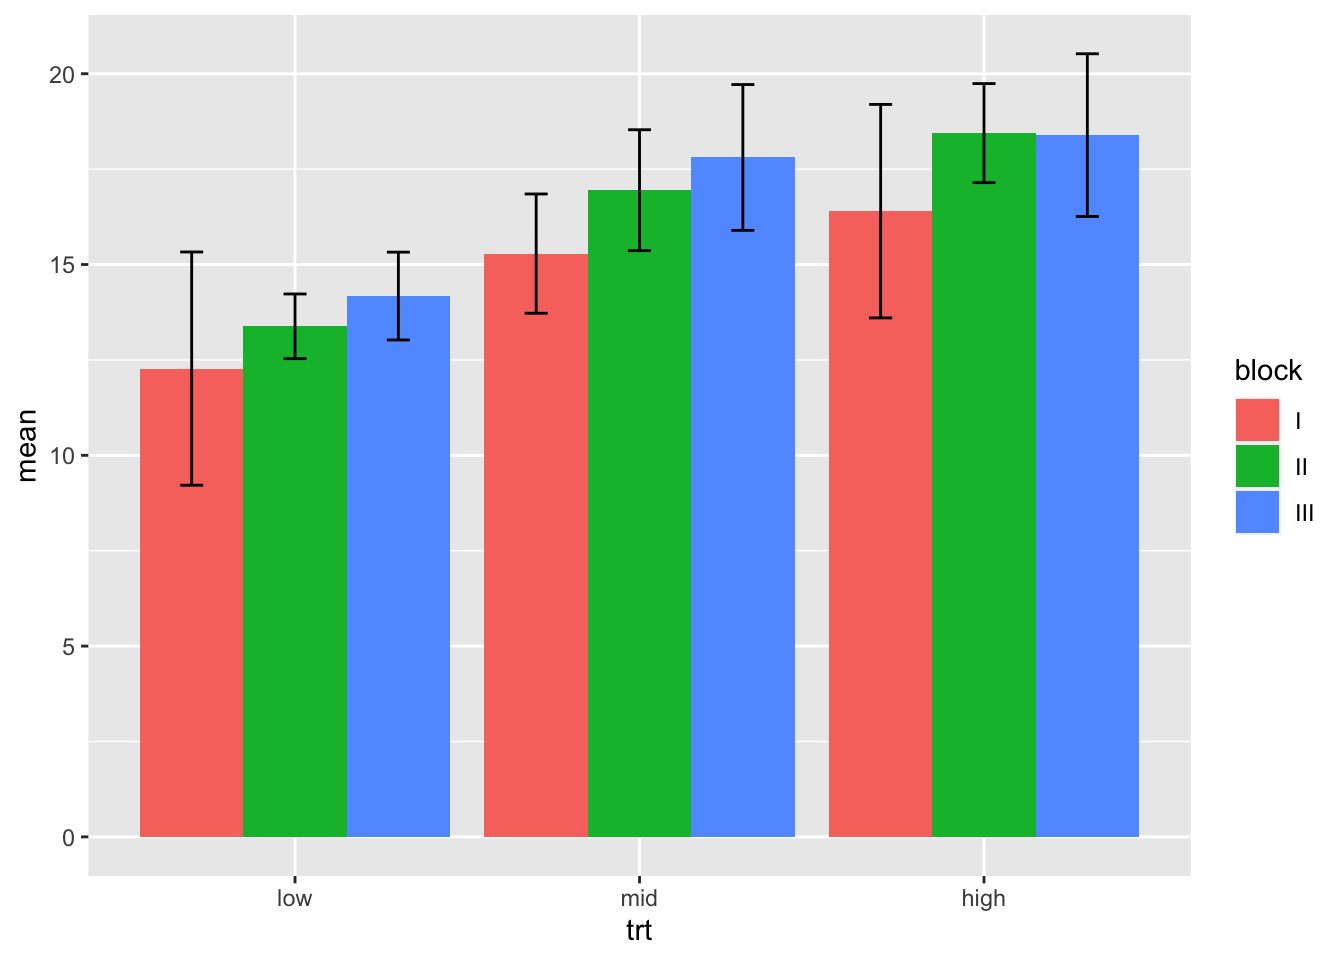
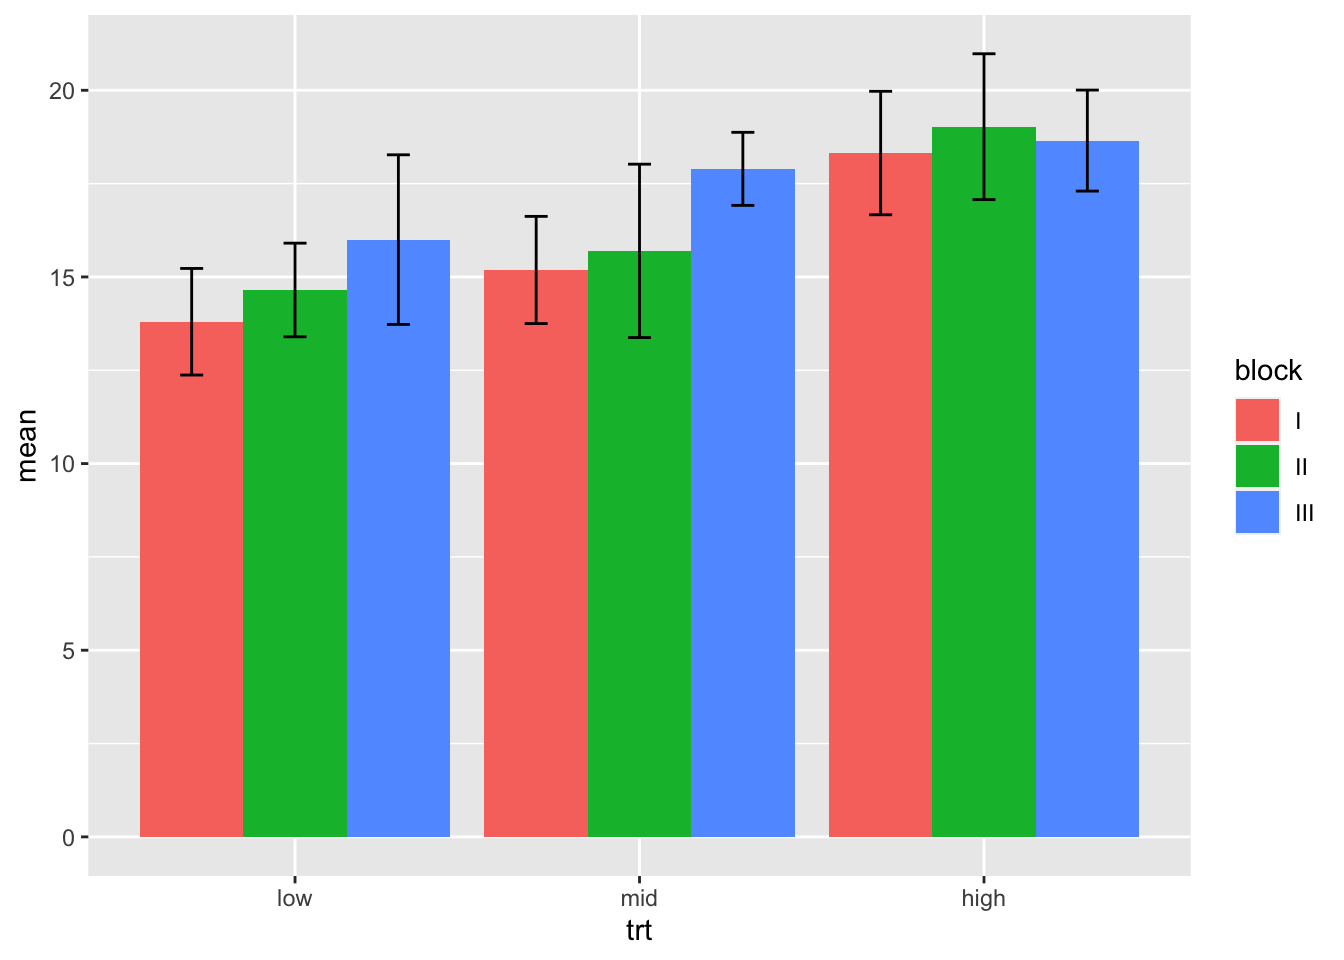
added text

diff --git a/docs/app-example-analysis.html b/docs/app-example-analysis.html
@@ -580,7 +580,7 @@ code span.wa { color: #60a0b0; font-weight: bold; font-style: italic; } /* Warni
 </header><div class="cell">
 
 </div>
-<p><em>Version vom November 18, 2022 um 15:03:57</em></p>
+<p><em>Version vom November 18, 2022 um 15:42:45</em></p>
 <div class="quarto-figure quarto-figure-center">
 <figure class="figure"><p><img src="images/caution.png" class="img-fluid figure-img" style="width:50.0%"></p>
 </figure>
@@ -959,12 +959,13 @@ Residuals             |     2120.85 | 45 |       47.13 |      |
 Anova Table (Type 1 tests)</code></pre>
 </div>
 </div>
-<p>Wir sehen die visuelle Interaktion auch in der ANOVA Ausgabe als hoch signifikanten Term <code>light_intensity:layer</code> mit dem <span class="math inline">\(p\)</span>-Wert <span class="math inline">\(&lt;0.001\)</span>. Im Anschluss rechnen wir jetzt die paarweisen Vergleiche mit der Funktion <code>emmeans()</code>. Mit dem <code>|</code> geben wir an, dass wir die paarweisen Vergleiche für die Level von <code>light_intensity</code> getrennt für die Level vom <code>layer</code> rechnen wollen. Wenn du <em>keine</em> Adjustierung des <span class="math inline">\(\alpha\)</span>-Niveaus für die multiplen Vergleiche möchtest, dann wähle einfach die Option <code>adjust = "none"</code>.</p>
+<p>Wir sehen die visuelle Interaktion auch in der ANOVA Ausgabe als hoch signifikanten Term <code>light_intensity:layer</code> mit dem <span class="math inline">\(p\)</span>-Wert <span class="math inline">\(&lt;0.001\)</span>. Im Anschluss rechnen wir jetzt die paarweisen Vergleiche mit der Funktion <code>emmeans()</code>. Mit dem <code>|</code> geben wir an, dass wir die paarweisen Vergleiche für die Level von <code>light_intensity</code> getrennt für die Level vom <code>layer</code> rechnen wollen. Wenn du <em>keine</em> Adjustierung des <span class="math inline">\(\alpha\)</span>-Niveaus für die multiplen Vergleiche möchtest, dann wähle einfach die Option <code>adjust = "none"</code>. Wir nutzen dann die Ausgabe nicht direkt sondern werden noch die Ausgabe etwas aufhübschen.</p>
 <div class="cell">
 <div class="sourceCode" id="cb22"><pre class="downlit sourceCode r code-with-copy"><code class="sourceCode R"><span><span class="va">comp_1_obj</span> <span class="op">&lt;-</span> <span class="va">fit_1</span> <span class="op">%&gt;%</span> </span>
 <span>  <span class="fu">emmeans</span><span class="op">(</span>specs <span class="op">=</span> <span class="op">~</span> <span class="va">light_intensity</span> <span class="op">|</span> <span class="va">layer</span><span class="op">)</span> <span class="op">%&gt;%</span> </span>
 <span>  <span class="fu">contrast</span><span class="op">(</span>method <span class="op">=</span> <span class="st">"pairwise"</span>, adjust <span class="op">=</span> <span class="st">"bonferroni"</span><span class="op">)</span> </span></code><button title="In die Zwischenablage kopieren" class="code-copy-button"><i class="bi"></i></button></pre></div>
 </div>
+<p>In dem Objekt <code>comp_1_obj</code> sind eine Menge Informationen enthalten. Ich kürze mir immer die Informationen und sortiere nochmal die Ergebnisse. Wir erhalten dann eine saubere Wiedergabe.</p>
 <div class="cell">
 <div class="sourceCode" id="cb23"><pre class="downlit sourceCode r code-with-copy"><code class="sourceCode R"><span><span class="va">comp_1_obj</span> <span class="op">%&gt;%</span> </span>
 <span>  <span class="va">summary</span> <span class="op">%&gt;%</span> </span>
@@ -986,6 +987,8 @@ Anova Table (Type 1 tests)</code></pre>
 9 mid - high 3rd   0.0028 </code></pre>
 </div>
 </div>
+<p>Nach der Adjustierung für die multiplen Vergleiche haben wir nur noch einen Effekt in dem <code>3rd</code> Layer. Sonst haben die Lichtintensitäten keinen Einfluss auf die Wuchshöhe der Pflanzen. Da wir wissen, dass das <code>3rd</code> Layer auch das defekte Layer war, sehen wir hier schon, dass wir keinen wirklichen Effekt durch das Licht vorliegen haben. Alles was wir gefunden haben, ist eben ein defektes <code>3rd</code> Layer.</p>
+<p>Die 95% Konfidenzintervalle erhalten wir mit der Funktion <code><a href="https://rdrr.io/r/stats/confint.html">confint()</a></code>. Die Ergebnisse sind natürlich die gleichen. Wir sehen wieder keinen Unterschied zwischen den Lichtintensitäten außer in dem <code>3rd</code> Layer.</p>
 <div class="cell">
 <div class="sourceCode" id="cb25"><pre class="downlit sourceCode r code-with-copy"><code class="sourceCode R"><span><span class="va">ci_obj</span> <span class="op">&lt;-</span> <span class="va">comp_1_obj</span> <span class="op">%&gt;%</span> </span>
 <span>  <span class="fu"><a href="https://rdrr.io/r/stats/confint.html">confint</a></span><span class="op">(</span><span class="op">)</span> <span class="op">%&gt;%</span> </span>
@@ -1008,6 +1011,7 @@ Anova Table (Type 1 tests)</code></pre>
 9 mid - high 3rd     14.0       4.18     23.9 </code></pre>
 </div>
 </div>
+<p>In der <a href="#fig-app-anova-interaction-4">Abbildung&nbsp;<span>A.6</span></a> sehen wir dann die berechneten 95% Konfidenzintervalle nochmal visualisiert. Wenn wir einen Effekt haben, dann im <code>3rd</code> Layer. In den restlichen 95% Konfidenzintervallen ist die Null mit enthalten, wir können also die Nullhypothese auf Gleichheit des Gruppenvergleiches nicht ablehnen.</p>
 <div class="cell" data-layout-align="center">
 <div class="sourceCode" id="cb27"><pre class="downlit sourceCode r code-with-copy"><code class="sourceCode R"><span><span class="fu">ggplot</span><span class="op">(</span><span class="va">ci_obj</span>, <span class="fu">aes</span><span class="op">(</span><span class="va">contrast</span>, y<span class="op">=</span><span class="va">estimate</span>, ymin<span class="op">=</span><span class="va">conf.low</span>, ymax<span class="op">=</span><span class="va">conf.high</span>,</span>
 <span>                   color <span class="op">=</span> <span class="va">layer</span>, group <span class="op">=</span> <span class="va">layer</span><span class="op">)</span><span class="op">)</span> <span class="op">+</span></span>
@@ -1025,6 +1029,7 @@ Anova Table (Type 1 tests)</code></pre>
 </div>
 </div>
 </div>
+<p>Neben der Darstellung mit 95% Konfidenzintervallen ist auch die Darstellung mit dem <em>compact letter display</em> sehr beliebt. Wir nutzen dafür dann die Funktion <code>cld()</code>. Wir adjustieren uns wieder die Vergleiche nach Bonferroni. Im Weiteren trenne wir die Vergleiche auch wieder nach den Leveln für den Faktor <code>layer</code> auf.</p>
 <div class="cell">
 <div class="sourceCode" id="cb28"><pre class="downlit sourceCode r code-with-copy"><code class="sourceCode R"><span><span class="va">cld_obj</span> <span class="op">&lt;-</span> <span class="va">fit_1</span> <span class="op">%&gt;%</span> </span>
 <span>  <span class="fu">emmeans</span><span class="op">(</span>specs <span class="op">=</span> <span class="op">~</span> <span class="va">light_intensity</span> <span class="op">|</span> <span class="va">layer</span><span class="op">)</span>  <span class="op">%&gt;%</span></span>
@@ -1059,12 +1064,15 @@ NOTE: Compact letter displays can be misleading
       Consider using 'pairs()', 'pwpp()', or 'pwpm()' instead. </code></pre>
 </div>
 </div>
+<p>Wir sehen wieder, dass wir nur in dem <code>3rd</code> Layer Buchstabenunterschiede haben. Daher haben wir auch nur im <code>3rd</code> Layer signifikante Ergebnisse. Wichtig ist, dass wir die Buchstaben nur pro Level des Layers vergleichen können, aber auf keinen Fall über die Layer hinweg. Das geht dann leider nicht. Die Ausgabe der Funktion <code>emmeans()</code> schlägt noch andere Darstellungsformen für die Vergleiche vor, du kannst gerne einmal die Funktionen <code><a href="https://rdrr.io/r/graphics/pairs.html">pairs()</a></code>, <code>pwpp()</code> oder <code>pwpm()</code> ausprobieren und schauen, ob dir die Visualisierung mehr sagt. Im <a href="stat-tests-posthoc.html#sec-posthoc-emmeans"><span>Kapitel&nbsp;31.5</span></a> gehe ich nochmal auf die verschiedene Darstellungsformen in <code>emmeans</code> ein.</p>
+<p>Wenn wir das <em>compact letter display</em> mit deinem Barplot verbinden wollen, müssen wir uns etwas strecken. Zuerst sortieren wir die Ausgabe von <code>cld_obj</code> wieder in die korrekte Reihenfolge der Faktorenlevel. Dann können wir die Spalte <code>.group</code> direkt in <code>ggplot()</code> verwenden.</p>
 <div class="cell">
 <div class="sourceCode" id="cb30"><pre class="downlit sourceCode r code-with-copy"><code class="sourceCode R"><span><span class="va">cld_sort_obj</span> <span class="op">&lt;-</span> <span class="va">cld_obj</span> <span class="op">%&gt;%</span> </span>
 <span>  <span class="fu">as_tibble</span><span class="op">(</span><span class="op">)</span> <span class="op">%&gt;%</span> </span>
 <span>  <span class="fu">select</span><span class="op">(</span><span class="va">light_intensity</span>, <span class="va">layer</span>, <span class="va">.group</span><span class="op">)</span> <span class="op">%&gt;%</span> </span>
 <span>  <span class="fu">arrange</span><span class="op">(</span><span class="va">layer</span>, <span class="va">light_intensity</span><span class="op">)</span></span></code><button title="In die Zwischenablage kopieren" class="code-copy-button"><i class="bi"></i></button></pre></div>
 </div>
+<p>In <a href="#fig-app-anova-interaction-5">Abbildung&nbsp;<span>A.7</span></a> sehen wir die Ausgabe des Barplots für die Daten und dann an die Balken geschrieben das <em>compact letter display</em>. Wichtig ist hier, dass die Buchstaben immer nur für <em>ein</em> Layer gelten. Wir können wegen der Interaktion nicht die Layer untereinander mit den Buchstaben vergleichen. Wir sehen wiederum, dass wir keine relevanten signifikanten Ergebnisse aus dem Experiment mitnehmen können.</p>
 <div class="cell" data-layout-align="center">
 <div class="sourceCode" id="cb31"><pre class="downlit sourceCode r code-with-copy"><code class="sourceCode R"><span><span class="va">stat_tbl</span> <span class="op">&lt;-</span> <span class="va">light_tbl</span> <span class="op">%&gt;%</span> </span>
 <span>  <span class="fu">group_by</span><span class="op">(</span><span class="va">light_intensity</span>, <span class="va">layer</span><span class="op">)</span> <span class="op">%&gt;%</span> </span>
@@ -1109,217 +1117,217 @@ NOTE: Compact letter displays can be misleading
 <td style="text-align: center;">low</td>
 <td style="text-align: center;">I</td>
 <td style="text-align: center;">1</td>
-<td style="text-align: center;">9.96</td>
+<td style="text-align: center;">14.33</td>
 </tr>
 <tr class="even">
 <td style="text-align: center;">low</td>
 <td style="text-align: center;">I</td>
 <td style="text-align: center;">2</td>
-<td style="text-align: center;">9.69</td>
+<td style="text-align: center;">12.53</td>
 </tr>
 <tr class="odd">
 <td style="text-align: center;">low</td>
 <td style="text-align: center;">I</td>
 <td style="text-align: center;">3</td>
-<td style="text-align: center;">13.31</td>
+<td style="text-align: center;">12.77</td>
 </tr>
 <tr class="even">
 <td style="text-align: center;">low</td>
 <td style="text-align: center;">I</td>
 <td style="text-align: center;">4</td>
-<td style="text-align: center;">16.13</td>
+<td style="text-align: center;">15.58</td>
 </tr>
 <tr class="odd">
 <td style="text-align: center;">low</td>
 <td style="text-align: center;">II</td>
 <td style="text-align: center;">1</td>
-<td style="text-align: center;">12.71</td>
+<td style="text-align: center;">13.49</td>
 </tr>
 <tr class="even">
 <td style="text-align: center;">low</td>
 <td style="text-align: center;">II</td>
 <td style="text-align: center;">2</td>
-<td style="text-align: center;">13.42</td>
+<td style="text-align: center;">14.40</td>
 </tr>
 <tr class="odd">
 <td style="text-align: center;">low</td>
 <td style="text-align: center;">II</td>
 <td style="text-align: center;">3</td>
-<td style="text-align: center;">12.83</td>
+<td style="text-align: center;">16.43</td>
 </tr>
 <tr class="even">
 <td style="text-align: center;">low</td>
 <td style="text-align: center;">II</td>
 <td style="text-align: center;">4</td>
-<td style="text-align: center;">14.56</td>
+<td style="text-align: center;">14.28</td>
 </tr>
 <tr class="odd">
 <td style="text-align: center;">low</td>
 <td style="text-align: center;">III</td>
 <td style="text-align: center;">1</td>
-<td style="text-align: center;">15.51</td>
+<td style="text-align: center;">18.65</td>
 </tr>
 <tr class="even">
 <td style="text-align: center;">low</td>
 <td style="text-align: center;">III</td>
 <td style="text-align: center;">2</td>
-<td style="text-align: center;">14.56</td>
+<td style="text-align: center;">15.05</td>
 </tr>
 <tr class="odd">
 <td style="text-align: center;">low</td>
 <td style="text-align: center;">III</td>
 <td style="text-align: center;">3</td>
-<td style="text-align: center;">13.84</td>
+<td style="text-align: center;">16.89</td>
 </tr>
 <tr class="even">
 <td style="text-align: center;">low</td>
 <td style="text-align: center;">III</td>
 <td style="text-align: center;">4</td>
-<td style="text-align: center;">12.78</td>
+<td style="text-align: center;">13.40</td>
 </tr>
 <tr class="odd">
 <td style="text-align: center;">mid</td>
 <td style="text-align: center;">I</td>
 <td style="text-align: center;">1</td>
-<td style="text-align: center;">17.01</td>
+<td style="text-align: center;">15.96</td>
 </tr>
 <tr class="even">
 <td style="text-align: center;">mid</td>
 <td style="text-align: center;">I</td>
 <td style="text-align: center;">2</td>
-<td style="text-align: center;">16.21</td>
+<td style="text-align: center;">15.92</td>
 </tr>
 <tr class="odd">
 <td style="text-align: center;">mid</td>
 <td style="text-align: center;">I</td>
 <td style="text-align: center;">3</td>
-<td style="text-align: center;">13.96</td>
+<td style="text-align: center;">13.03</td>
 </tr>
 <tr class="even">
 <td style="text-align: center;">mid</td>
 <td style="text-align: center;">I</td>
 <td style="text-align: center;">4</td>
-<td style="text-align: center;">13.96</td>
-</tr>
-<tr class="odd">
-<td style="text-align: center;">mid</td>
-<td style="text-align: center;">II</td>
-<td style="text-align: center;">1</td>
-<td style="text-align: center;">17.36</td>
-</tr>
-<tr class="even">
-<td style="text-align: center;">mid</td>
-<td style="text-align: center;">II</td>
-<td style="text-align: center;">2</td>
 <td style="text-align: center;">15.84</td>
 </tr>
 <tr class="odd">
 <td style="text-align: center;">mid</td>
 <td style="text-align: center;">II</td>
+<td style="text-align: center;">1</td>
+<td style="text-align: center;">13.44</td>
+</tr>
+<tr class="even">
+<td style="text-align: center;">mid</td>
+<td style="text-align: center;">II</td>
+<td style="text-align: center;">2</td>
+<td style="text-align: center;">18.74</td>
+</tr>
+<tr class="odd">
+<td style="text-align: center;">mid</td>
+<td style="text-align: center;">II</td>
 <td style="text-align: center;">3</td>
-<td style="text-align: center;">19.01</td>
+<td style="text-align: center;">14.43</td>
 </tr>
 <tr class="even">
 <td style="text-align: center;">mid</td>
 <td style="text-align: center;">II</td>
 <td style="text-align: center;">4</td>
-<td style="text-align: center;">15.58</td>
+<td style="text-align: center;">16.18</td>
 </tr>
 <tr class="odd">
 <td style="text-align: center;">mid</td>
 <td style="text-align: center;">III</td>
 <td style="text-align: center;">1</td>
-<td style="text-align: center;">17.70</td>
+<td style="text-align: center;">18.74</td>
 </tr>
 <tr class="even">
 <td style="text-align: center;">mid</td>
 <td style="text-align: center;">III</td>
 <td style="text-align: center;">2</td>
-<td style="text-align: center;">15.49</td>
+<td style="text-align: center;">16.50</td>
 </tr>
 <tr class="odd">
 <td style="text-align: center;">mid</td>
 <td style="text-align: center;">III</td>
 <td style="text-align: center;">3</td>
-<td style="text-align: center;">20.17</td>
+<td style="text-align: center;">18.02</td>
 </tr>
 <tr class="even">
 <td style="text-align: center;">mid</td>
 <td style="text-align: center;">III</td>
 <td style="text-align: center;">4</td>
-<td style="text-align: center;">17.87</td>
+<td style="text-align: center;">18.32</td>
 </tr>
 <tr class="odd">
 <td style="text-align: center;">high</td>
 <td style="text-align: center;">I</td>
 <td style="text-align: center;">1</td>
-<td style="text-align: center;">15.94</td>
+<td style="text-align: center;">16.04</td>
 </tr>
 <tr class="even">
 <td style="text-align: center;">high</td>
 <td style="text-align: center;">I</td>
 <td style="text-align: center;">2</td>
-<td style="text-align: center;">20.01</td>
+<td style="text-align: center;">19.48</td>
 </tr>
 <tr class="odd">
 <td style="text-align: center;">high</td>
 <td style="text-align: center;">I</td>
 <td style="text-align: center;">3</td>
-<td style="text-align: center;">16.44</td>
+<td style="text-align: center;">18.15</td>
 </tr>
 <tr class="even">
 <td style="text-align: center;">high</td>
 <td style="text-align: center;">I</td>
 <td style="text-align: center;">4</td>
-<td style="text-align: center;">13.20</td>
+<td style="text-align: center;">19.61</td>
 </tr>
 <tr class="odd">
 <td style="text-align: center;">high</td>
 <td style="text-align: center;">II</td>
 <td style="text-align: center;">1</td>
-<td style="text-align: center;">17.60</td>
+<td style="text-align: center;">17.93</td>
 </tr>
 <tr class="even">
 <td style="text-align: center;">high</td>
 <td style="text-align: center;">II</td>
 <td style="text-align: center;">2</td>
-<td style="text-align: center;">18.71</td>
+<td style="text-align: center;">21.78</td>
 </tr>
 <tr class="odd">
 <td style="text-align: center;">high</td>
 <td style="text-align: center;">II</td>
 <td style="text-align: center;">3</td>
-<td style="text-align: center;">17.30</td>
+<td style="text-align: center;">17.40</td>
 </tr>
 <tr class="even">
 <td style="text-align: center;">high</td>
 <td style="text-align: center;">II</td>
 <td style="text-align: center;">4</td>
-<td style="text-align: center;">20.17</td>
+<td style="text-align: center;">18.99</td>
 </tr>
 <tr class="odd">
 <td style="text-align: center;">high</td>
 <td style="text-align: center;">III</td>
 <td style="text-align: center;">1</td>
-<td style="text-align: center;">18.09</td>
+<td style="text-align: center;">19.49</td>
 </tr>
 <tr class="even">
 <td style="text-align: center;">high</td>
 <td style="text-align: center;">III</td>
 <td style="text-align: center;">2</td>
-<td style="text-align: center;">20.64</td>
+<td style="text-align: center;">18.40</td>
 </tr>
 <tr class="odd">
 <td style="text-align: center;">high</td>
 <td style="text-align: center;">III</td>
 <td style="text-align: center;">3</td>
-<td style="text-align: center;">19.24</td>
+<td style="text-align: center;">16.85</td>
 </tr>
 <tr class="even">
 <td style="text-align: center;">high</td>
 <td style="text-align: center;">III</td>
 <td style="text-align: center;">4</td>
-<td style="text-align: center;">15.60</td>
+<td style="text-align: center;">19.87</td>
 </tr>
 </tbody>
 </table>
@@ -1363,10 +1371,10 @@ NOTE: Compact letter displays can be misleading
 <pre><code>Analysis of Variance Table
 
 Response: rsp
-          Df   Sum Sq Mean Sq  F value       Pr(&gt;F)    
-trt        2 130.7646 65.3823 19.54324 0.0000032268 ***
-block      2  29.7248 14.8624  4.44248     0.020117 *  
-Residuals 31 103.7111  3.3455                          
+          Df  Sum Sq Mean Sq  F value      Pr(&gt;F)    
+trt        2 90.7408 45.3704 16.44512 0.000013548 ***
+block      2 18.5913  9.2956  3.36933    0.047415 *  
+Residuals 31 85.5259  2.7589                         
 ---
 Signif. codes:  0 '***' 0.001 '**' 0.01 '*' 0.05 '.' 0.1 ' ' 1</code></pre>
 </div>
@@ -1384,9 +1392,9 @@ Signif. codes:  0 '***' 0.001 '**' 0.01 '*' 0.05 '.' 0.1 ' ' 1</code></pre>
 <pre><code># A tibble: 3 × 3
   contrast   estimate adj.p.value
   &lt;chr&gt;         &lt;dbl&gt;       &lt;dbl&gt;
-1 mid - low      3.40      0.0002
-2 high - low     4.47      0     
-3 high - mid     1.06      0.341 </code></pre>
+1 mid - low      1.44      0.100 
+2 high - low     3.85      0     
+3 high - mid     2.41      0.0035</code></pre>
 </div>
 </div>
 </section><section id="gruppenvergleich-mit-der-emmeans-paket" class="level3" data-number="A.5.5"><h3 data-number="A.5.5" class="anchored" data-anchor-id="gruppenvergleich-mit-der-emmeans-paket">
@@ -1403,9 +1411,9 @@ Signif. codes:  0 '***' 0.001 '**' 0.01 '*' 0.05 '.' 0.1 ' ' 1</code></pre>
 <pre><code># A tibble: 3 × 3
   contrast   estimate adj.p.value
   &lt;chr&gt;         &lt;dbl&gt;       &lt;dbl&gt;
-1 low - mid     -3.40      0.0002
-2 low - high    -4.47      0     
-3 mid - high    -1.06      0.341 </code></pre>
+1 low - mid     -1.44      0.100 
+2 low - high    -3.85      0     
+3 mid - high    -2.41      0.0035</code></pre>
 </div>
 </div>
 </section></section><section id="auswertung-von-boniturnoten" class="level2" data-number="A.6"><h2 data-number="A.6" class="anchored" data-anchor-id="auswertung-von-boniturnoten">
